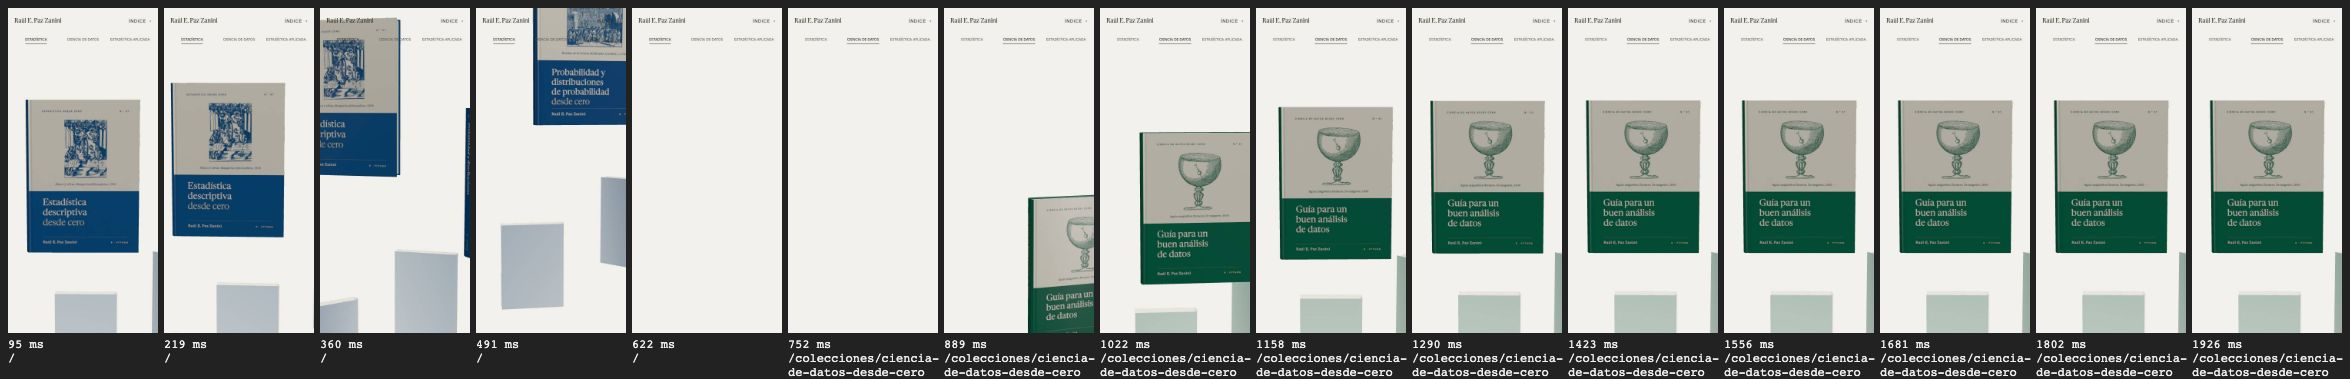
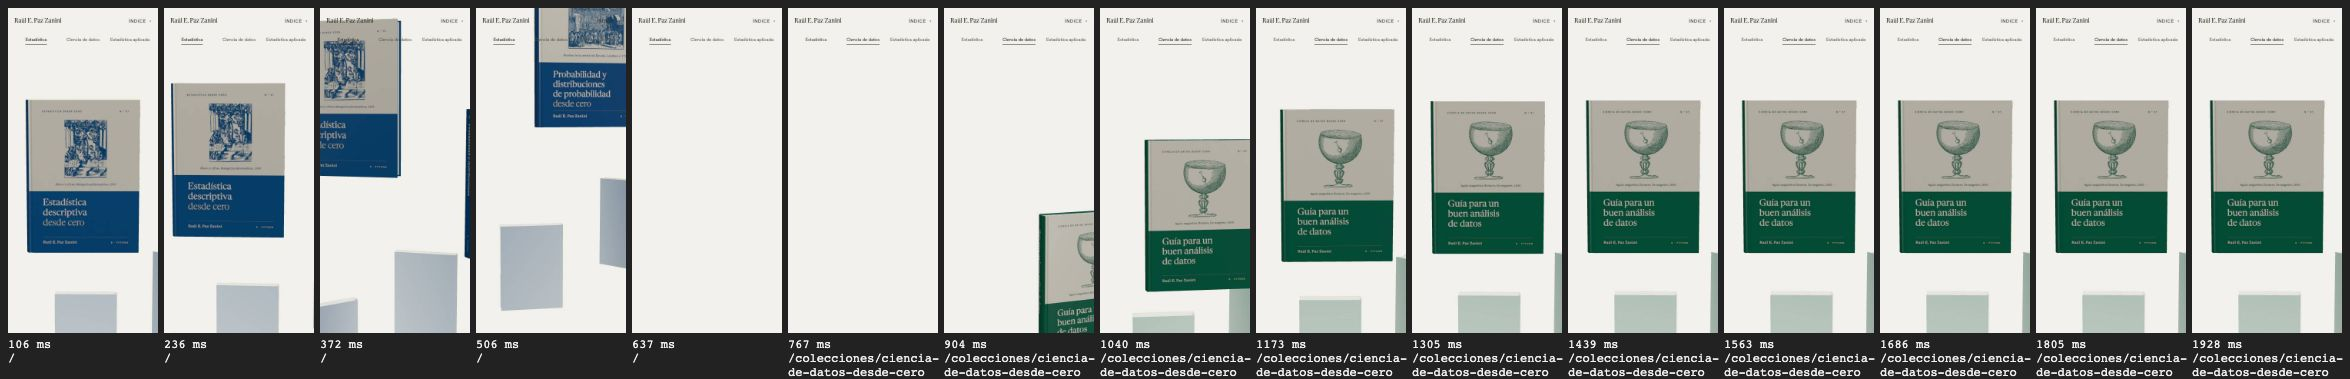
Set the filters in sentence case at 12px, tracked in 2% (#75)
Franco's first look: smaller than the menu's small caps, not all uppercase.

diff --git a/app/filters-prototype/prototype.tsx b/app/filters-prototype/prototype.tsx
@@ -150,8 +150,8 @@ function useChange() {
 }
 
 const SMALL_CAPS = "text-xs tracking-widest uppercase";
-// The filters: smaller than the menu, tracked in by 2% (Franco, 2026-11-20).
-const FILTER_TYPE = "text-[10px] tracking-[-0.02em] uppercase";
+// The filters: sentence case, tracked in by 2% (Franco, 2026-11-20).
+const FILTER_TYPE = "text-xs tracking-[-0.02em]";
 
 /** The marks: how the current filter differs from the other two. */
 function markClass(mark: Options["mark"], active: boolean) {
